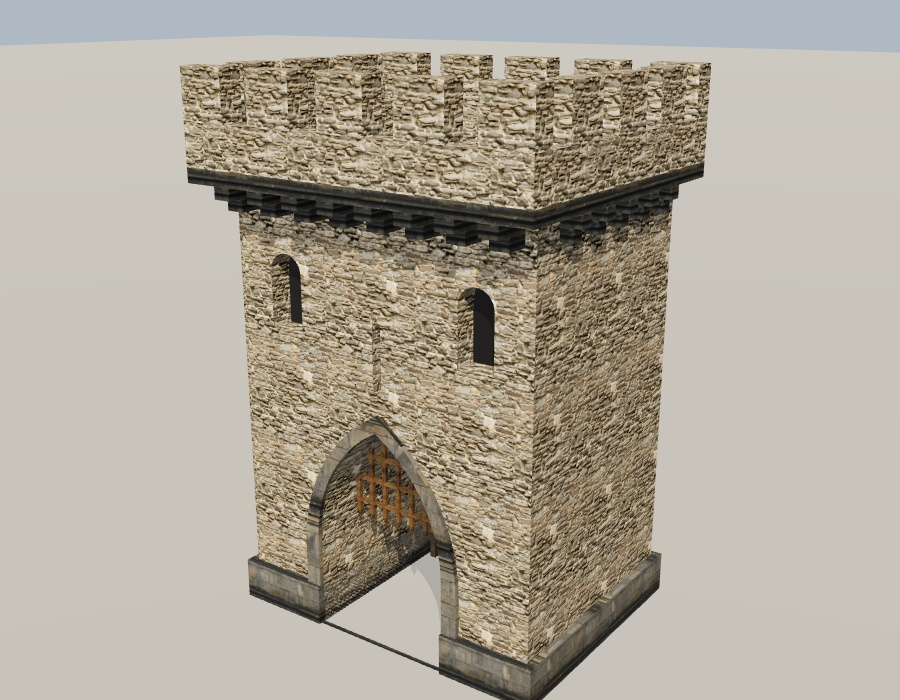
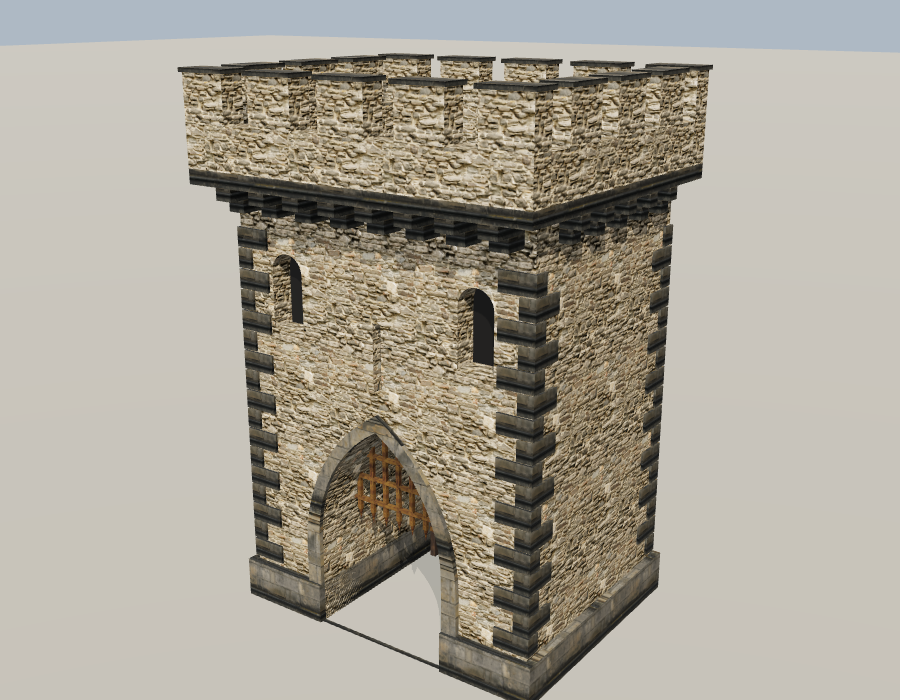
Refine kit, round 1: battered plinths, merlon caps, quoins, slit frames, string course, door straps
Sloped dressed plinth on every wall module and a mitred one on the corner; every merlon gets a dressed cap slab (merlon plus cap is still 1.2 m); quoins on the square tower, the gatehouse and the corner; dressed frames around arrow loops; a string course and iron straps on the round tower door; iron straps on the square tower door.

Changed region(s): [[0.1867, 0.06, 0.8089, 1.0]]

diff --git a/src/lib/kit.js b/src/lib/kit.js
@@ -15,7 +15,8 @@ export const DIM = {
   slabOut: 0.5, // coping overhang on the outer face
   parapetH: 1.0, // solid parapet below the merlons
   parapetT: 0.6,
-  merlonH: 1.2,
+  merlonH: 1.1,
+  capH: 0.1, // dressed cap slab on every merlon (merlon plus cap is still 1.2 m)
   merlonW: 1.2,
 };
 
@@ -76,4 +77,75 @@ export function archRing(o, width = 0.35, proud = 0.1) {
   G.openingPath(hole, o);
   outer.holes.push(hole);
   return G.boxUV(new THREE.ExtrudeGeometry(outer, { depth: proud, bevelEnabled: false, curveSegments: 12 }));
+}
+
+/**
+ * Merlon with a dressed cap slab on top. `pos` is the centre of its base, rotY turns it about Y.
+ * `lift` raises the cap by a few millimetres where two caps overlap, so they do not z-fight.
+ */
+export function merlon(b, w, d, pos, rotY = 0, lift = 0) {
+  b.add('stone', G.block(w, DIM.merlonH, d), pos, rotY);
+  b.add('dressed', G.block(w + 0.12, DIM.capH, d + 0.12), [pos[0], pos[1] + DIM.merlonH + lift, pos[2]], rotY);
+}
+
+/**
+ * Quoins: alternating long and short corner stones standing 6 cm proud of a vertical corner.
+ * The corner is at (cx, cz); (ox, oz) are +-1 and point away from the wall body; y0..y1 is the height range.
+ */
+export function quoins(b, cx, cz, ox, oz, y0, y1, { long = 0.9, short = 0.4, course = 0.5, proud = 0.06 } = {}) {
+  const n = Math.floor((y1 - y0) / course);
+  for (let i = 0; i < n; i++) {
+    const wx = i % 2 ? short : long;
+    const wz = i % 2 ? long : short;
+    b.add('dressed', G.block(wx, course - 0.04, wz), [cx + ox * (proud - wx / 2), y0 + i * course + 0.02, cz + oz * (proud - wz / 2)]);
+  }
+}
+
+/** Dressed frame around an arrow loop on the outer (+Z) face of a wall; z is the face position. */
+export function slitFrame(b, x, y, w, h, z, { f = 0.16, proud = 0.07 } = {}) {
+  const depth = proud + 0.05;
+  const cz = z - 0.05 + depth / 2;
+  b.add('dressed', G.block(f, h, depth), [x - (w + f) / 2, y, cz]);
+  b.add('dressed', G.block(f, h, depth), [x + (w + f) / 2, y, cz]);
+  b.add('dressed', G.block(w + 2 * f, f, depth), [x, y + h, cz]);
+  b.add('dressed', G.block(w + 2 * f, f, depth), [x, y - f, cz]);
+}
+
+/** Dressed plinth along X from x0 to x1 with sloped faces: T + 2 * proud wide at the foot, T + 2 * top at height h. */
+export function batteredPlinth(x0, x1, T, { h = 1.0, proud = 0.35, top = 0.15 } = {}) {
+  const lo = T / 2 + proud;
+  const hi = T / 2 + top;
+  const s = new THREE.Shape();
+  s.moveTo(-lo, 0);
+  s.lineTo(lo, 0);
+  s.lineTo(hi, h);
+  s.lineTo(-hi, h);
+  s.lineTo(-lo, 0);
+  return G.profileAlongX(s, x1 - x0, 1).translate(x0, 0, 0);
+}
+
+/**
+ * Plinth for the L-shaped corner module in wall.js: its outline offset by d0 at the foot and d1 at the top, mitred
+ * at the corners. The two end faces (x = -2 and z = -2) do not move, so the profile matches batteredPlinth.
+ * Returns two geometries: the sloped skirt and the flat top.
+ */
+export function cornerPlinth(h = 1.0, d0 = 0.35, d1 = 0.15) {
+  const ring = (d) => [[-2, -1 - d], [-1 - d, -1 - d], [-1 - d, -2], [1 + d, -2], [1 + d, 1 + d], [-2, 1 + d]];
+  const lo = ring(d0);
+  const hi = ring(d1);
+  const v = [];
+  for (let i = 0; i < lo.length; i++) {
+    const j = (i + 1) % lo.length;
+    const a = [lo[i][0], 0, lo[i][1]];
+    const b2 = [lo[j][0], 0, lo[j][1]];
+    const c = [hi[j][0], h, hi[j][1]];
+    const d = [hi[i][0], h, hi[i][1]];
+    v.push(...a, ...d, ...c, ...a, ...c, ...b2);
+  }
+  const skirt = new THREE.BufferGeometry();
+  skirt.setAttribute('position', new THREE.Float32BufferAttribute(v, 3));
+  const top = new THREE.ShapeGeometry(new THREE.Shape(hi.map(([x, z]) => new THREE.Vector2(x, -z))));
+  top.rotateX(-Math.PI / 2);
+  top.translate(0, h, 0);
+  return [G.boxUV(skirt), G.boxUV(top)];
 }

diff --git a/src/modules/wall.js b/src/modules/wall.js
@@ -6,7 +6,7 @@
 
 import * as THREE from 'three';
 import * as G from '../lib/geo.js';
-import { DIM, newBuilder, prismXZ, corbelRow, archRing } from '../lib/kit.js';
+import { DIM, newBuilder, prismXZ, corbelRow, archRing, merlon, quoins, slitFrame, batteredPlinth, cornerPlinth } from '../lib/kit.js';
 
 const H = DIM.wallH;
 const T = DIM.wallT;
@@ -32,7 +32,8 @@ function wallBody(b, len, { openings = [], slits = [], plinth = [[-len / 2, len 
     cutters.push(splay.applyMatrix4(G.faceMatrix('n', len, T)));
   }
   b.add('stone', G.boxUV(G.carve(box, cutters)));
-  for (const [x0, x1] of plinth) b.add('dressed', G.block(x1 - x0, 1.0, T + 0.4), [(x0 + x1) / 2, 0, 0]);
+  for (const [x0, x1] of plinth) b.add('dressed', batteredPlinth(x0, x1, T));
+  for (const s of slits) slitFrame(b, s.x, s.y, 0.16, 1.5, T / 2);
 }
 
 /** Parapet with merlons on the outer edge; one merlon per 2 m cell. */
@@ -40,7 +41,7 @@ function battlementStraight(b, len, y = H) {
   const t = DIM.parapetT;
   b.add('stone', G.block(len, DIM.parapetH, t), [0, y, PARAPET_Z]);
   for (let i = 0; i < len / 2; i++) {
-    b.add('stone', G.block(DIM.merlonW, DIM.merlonH, t), [-len / 2 + 1 + i * 2, y + DIM.parapetH, PARAPET_Z]);
+    merlon(b, DIM.merlonW, t, [-len / 2 + 1 + i * 2, y + DIM.parapetH, PARAPET_Z]);
   }
 }
 
@@ -48,14 +49,13 @@ function battlementStraight(b, len, y = H) {
 function battlementCorner(b, y = H) {
   const t = DIM.parapetT;
   const p = DIM.parapetH;
-  const m = DIM.merlonH;
   const z = PARAPET_Z;
   b.add('stone', G.block(3.5, p, t), [-0.25, y, z]);
   b.add('stone', G.block(t, p, 2.9), [z, y, -0.55]);
-  b.add('stone', G.block(DIM.merlonW, m, t), [-1, y + p, z]);
-  b.add('stone', G.block(1.1, m, t), [0.95, y + p, z]);
-  b.add('stone', G.block(t, m, 0.5), [z, y + p, 0.65]);
-  b.add('stone', G.block(t, m, DIM.merlonW), [z, y + p, -1]);
+  merlon(b, DIM.merlonW, t, [-1, y + p, z]);
+  merlon(b, 1.1, t, [0.95, y + p, z]);
+  merlon(b, t, 0.5, [z, y + p, 0.65], 0, 0.002); // its cap overlaps the neighbour's cap, so it sits 2 mm higher
+  merlon(b, t, DIM.merlonW, [z, y + p, -1]);
 }
 
 /** Coping slab, corbel table and (optionally) the parapets on top of a straight wall. */
@@ -68,7 +68,8 @@ function wallTop(b, len, { battlement = true, innerParapet = true } = {}) {
 
 function cornerModule(b, { battlement = true } = {}) {
   b.add('stone', prismXZ([[-2, -1], [-1, -1], [-1, -2], [1, -2], [1, 1], [-2, 1]], 0, BODY_H));
-  b.add('dressed', prismXZ([[-2, -1.2], [-1.2, -1.2], [-1.2, -2], [1.2, -2], [1.2, 1.2], [-2, 1.2]], 0, 1.0));
+  for (const g of cornerPlinth()) b.add('dressed', g);
+  quoins(b, 1, 1, 1, 1, 1.1, 6.9);
   b.add('dressed', prismXZ([[-2, -1], [-1, -1], [-1, -2], [1.5, -2], [1.5, 1.5], [-2, 1.5]], BODY_H, H));
   corbelRow(b, 'dressed', [-1.5, T / 2], [1, 0], 3, 1, [0, 1], BODY_H);
   corbelRow(b, 'dressed', [T / 2, -1.5], [0, 1], 3, 1, [1, 0], BODY_H);

diff --git a/src/modules/tower.js b/src/modules/tower.js
@@ -7,7 +7,7 @@
 
 import * as THREE from 'three';
 import * as G from '../lib/geo.js';
-import { DIM, newBuilder, corbelRow, archRing } from '../lib/kit.js';
+import { DIM, newBuilder, corbelRow, archRing, merlon, quoins } from '../lib/kit.js';
 
 const R = 3.5; // round tower radius
 const S = 6; // square tower side
@@ -79,7 +79,7 @@ function roundTop(b, roofed) {
   for (let i = 0; i < count; i++) {
     const a = (i / count) * Math.PI * 2;
     b.push([Math.cos(a) * rm, H + ph, Math.sin(a) * rm], A - a);
-    b.add('stone', G.block(DIM.merlonW, DIM.merlonH, 0.6));
+    merlon(b, DIM.merlonW, 0.6, [0, 0, 0]);
     b.pop();
   }
 }
@@ -98,6 +98,9 @@ function roundTower(b, roofed) {
   ];
   roundBody(b, openings);
   b.add('dressed', archRing(DOOR_RING, 0.3, 0.35), [0, 0, -(R - 0.3)], Math.PI);
+  // string course between the loops and iron straps across the courtyard door
+  b.add('dressed', G.cylinder(R + 0.08, R + 0.08, 0.25, 40, { y0: 7.0 }));
+  for (const yy of [0.7, 1.6]) b.add('iron', G.box(1.5, 0.12, 0.05).translate(0, yy, -0.94).applyMatrix4(cylMatrix(-A)));
   roundTop(b, roofed);
 }
 
@@ -123,6 +126,9 @@ function squareTower(b) {
   const plinth = G.block(S + 0.4, 1.0, S + 0.4);
   b.add('dressed', G.boxUV(G.carve(plinth, [G.openingCutter(DOOR, 1.5).applyMatrix4(fm('n'))])));
   b.add('dressed', archRing(DOOR_RING, 0.3, 0.12), [0, 0, -S / 2], Math.PI);
+  // quoins on the four corners (stopping below the corbel tables) and iron straps across the courtyard door
+  for (const sx of [-1, 1]) for (const sz of [-1, 1]) quoins(b, (sx * S) / 2, (sz * S) / 2, sx, sz, 1.1, BODY_H - 0.8);
+  for (const yy of [0.7, 1.6]) b.add('iron', G.box(1.5, 0.12, 0.05).translate(0, yy, -0.94).applyMatrix4(fm('n')));
 
   // coping slab, corbel tables on all four sides, parapet with merlons
   b.add('dressed', G.block(S + 1, DIM.coping, S + 1), [0, BODY_H, 0]);
@@ -137,10 +143,10 @@ function squareTower(b) {
   b.add('stone', G.block(0.6, ph, 5.8), [-3.2, H, 0]);
   const y = H + ph;
   for (const x of [-2.9, -0.967, 0.967, 2.9]) {
-    for (const z of [-3.2, 3.2]) b.add('stone', G.block(DIM.merlonW, DIM.merlonH, 0.6), [x, y, z]);
+    for (const z of [-3.2, 3.2]) merlon(b, DIM.merlonW, 0.6, [x, y, z]);
   }
   for (const z of [-1.75, 0, 1.75]) {
-    for (const x of [-3.2, 3.2]) b.add('stone', G.block(0.6, DIM.merlonH, DIM.merlonW), [x, y, z]);
+    for (const x of [-3.2, 3.2]) merlon(b, 0.6, DIM.merlonW, [x, y, z]);
   }
 }
 

diff --git a/src/modules/gate.js b/src/modules/gate.js
@@ -6,7 +6,7 @@
 
 import * as THREE from 'three';
 import * as G from '../lib/geo.js';
-import { DIM, newBuilder, corbelRow, archRing } from '../lib/kit.js';
+import { DIM, newBuilder, corbelRow, archRing, merlon, quoins } from '../lib/kit.js';
 
 const W = 8;
 const D = 6;
@@ -38,6 +38,8 @@ function gateBody(b) {
   // dressed arch rings on both faces
   b.add('dressed', archRing(PASS, 0.4, 0.12), [0, 0, D / 2]);
   b.add('dressed', archRing(PASS, 0.4, 0.12), [0, 0, -D / 2], Math.PI);
+  // quoins on the four corners, stopping below the corbel tables
+  for (const sx of [-1, 1]) for (const sz of [-1, 1]) quoins(b, (sx * W) / 2, (sz * D) / 2, sx, sz, 1.1, BODY_H - 1.0);
 }
 
 /** Overhanging walkway on corbels (deeper on the outer face) with a merlon parapet all round. */
@@ -55,10 +57,10 @@ function gateTop(b) {
   b.add('stone', G.block(0.6, ph, 6.3), [-4.2, H, 0.25]);
   const y = H + ph;
   for (const x of [-3.9, -1.95, 0, 1.95, 3.9]) {
-    for (const z of [3.7, -3.2]) b.add('stone', G.block(DIM.merlonW, DIM.merlonH, 0.6), [x, y, z]);
+    for (const z of [3.7, -3.2]) merlon(b, DIM.merlonW, 0.6, [x, y, z]);
   }
   for (const z of [-1.625, 0.25, 2.125]) {
-    for (const x of [-4.2, 4.2]) b.add('stone', G.block(0.6, DIM.merlonH, DIM.merlonW), [x, y, z]);
+    for (const x of [-4.2, 4.2]) merlon(b, 0.6, DIM.merlonW, [x, y, z]);
   }
 }
 
